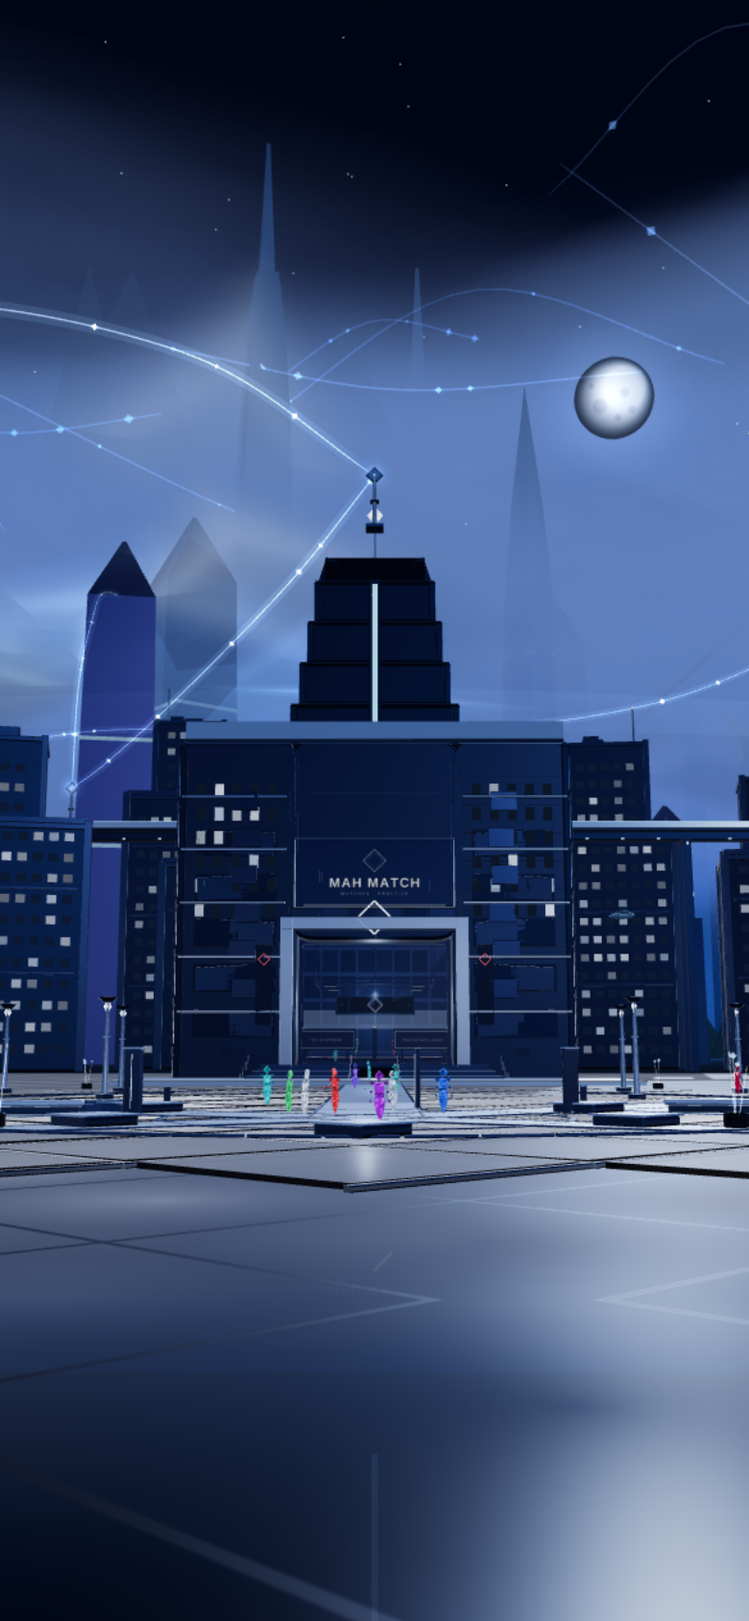
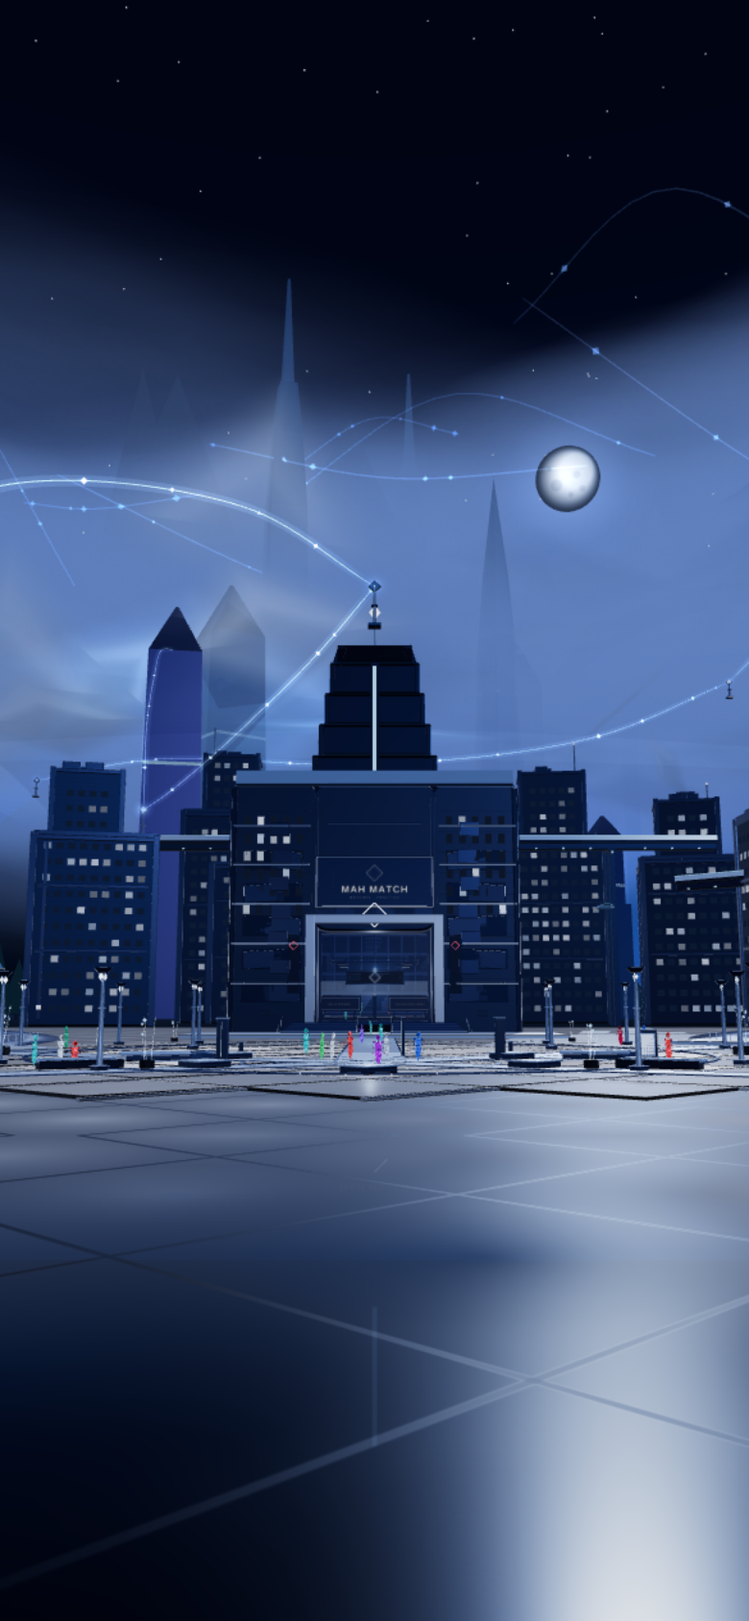
MAHWORLD v6 platinum — the phone hero, Review.html, and one stated tension
The phone hero bands as the brief specifies: platinum floor in the lower third,
then the facilities and residents, then the background districts, then
mountains, FOBEAMs, moon and open sky. The floor was taking 40% of the frame
against the brief's 25-30 and the look target was raised to correct it.

AND A TENSION WORTH NAMING RATHER THAN HIDING. Section 05 (real spacing between
the facilities) and section 46 (all of them inside one portrait frame) pull
against each other at a physical camera. With the sites genuinely about 120 m
apart — which is what fixed their colliding footprints — holding all three
inside a 9:19.5 crop needs roughly an 88-degree vertical lens, which is a
fisheye. The hero therefore makes MAH MATCH its subject and lets MAH GYM and MAH
MARKET enter at the frame edges. The concept image resolves this with an
illustrative composition rather than a perspective camera; a real camera cannot.
It is recorded as a gate note and a discrepancy, not smoothed over.

Review.html is written with the v5 chromium-city pass as BASELINE and this pass
as AFTER, the four ecosystem views included, and the acceptance table rendered
from gates.json.

Suites: laws 27/27, world clock 12/12, 42 captures, 0 page errors.

Claude-Session: https://claude.ai/code/session_01PFdimckBkTJSzz58pBNFUm

diff --git a/validation/mahworld/mahplaza-v6/Review.html b/validation/mahworld/mahplaza-v6/Review.html
@@ -1,0 +1,25 @@
+<!doctype html><html lang="en"><head><meta charset="utf-8"><meta name="viewport" content="width=device-width,initial-scale=1"><title>MAHPLAZA v6 — the platinum ecosystem</title>
+<style>:root{--bg:#0b1020;--ink:#e8f0ff;--dim:#9fb3d3;--line:#22304a;--accent:#8fd0ff;--ref:#c9b2ff;--base:#9aa7bb;--after:#8fd0ff;--pass:#63e6a3;--partial:#ffd39a;--blocked:#ff8fa0}
+html{background:var(--bg);color:var(--ink);font:15px/1.5 "Space Grotesk",system-ui,-apple-system,"Helvetica Neue",Arial,sans-serif}body{margin:0;padding:28px clamp(16px,4vw,56px) 80px;max-width:1500px}
+h1{font-size:22px;letter-spacing:.14em;text-transform:uppercase;margin:0 0 4px}h2{font-size:14px;letter-spacing:.24em;text-transform:uppercase;color:var(--dim);margin:44px 0 12px;padding-top:16px;border-top:1px solid var(--line)}
+p{max-width:78ch;color:var(--dim)}p.lead{color:var(--ink)}code{font-size:.9em;color:var(--accent)}pre{font-size:12px;color:var(--dim);overflow-x:auto;background:#0e1628;padding:10px;border:1px solid var(--line);border-radius:4px}
+.grid{display:grid;gap:14px;grid-template-columns:repeat(auto-fill,minmax(300px,1fr))}.grid--wide{grid-template-columns:repeat(auto-fill,minmax(420px,1fr))}.grid--pair{grid-template-columns:repeat(auto-fit,minmax(420px,1fr))}
+figure{margin:0;position:relative;background:#0e1628;border:1px solid var(--line);border-radius:4px;overflow:hidden}figure img{display:block;width:100%;height:auto;background:#000}figcaption{padding:8px 10px 10px;font-size:12.5px;color:var(--dim)}
+.tag{position:absolute;top:8px;left:8px;font-size:10px;letter-spacing:.2em;text-transform:uppercase;padding:3px 7px;border-radius:2px;background:rgba(6,10,24,.85);border:1px solid var(--line)}.tag--reference{color:var(--ref)}.tag--baseline{color:var(--base)}.tag--after{color:var(--after)}
+table{border-collapse:collapse;width:100%;font-size:13px;font-variant-numeric:tabular-nums}th,td{text-align:left;padding:7px 9px;border-bottom:1px solid var(--line);vertical-align:top}th{color:var(--dim);font-weight:500;letter-spacing:.08em;text-transform:uppercase;font-size:11px}
+.pill{display:inline-block;padding:1px 8px;border-radius:2px;font-size:11px;letter-spacing:.12em;text-transform:uppercase;border:1px solid currentColor}.PASS{color:var(--pass)}.PARTIAL{color:var(--partial)}.BLOCKED,.NOT_RUN,.FAIL{color:var(--blocked)}.wrap{overflow-x:auto}</style></head><body>
+<h1>MAHPLAZA — the platinum ecosystem (v6)</h1>
+<p class="lead">Actual-runtime captures from <code>mahworld/scene/mahplaza.html</code> on the permitted renderer. Revision <code>74ef592+working-tree</code>, captured 2026-09-06T03:32:45.377Z, 141.0.7390.37 with software GL. BASELINE frames are the v5 chromium-city pass (<code>../mahplaza-v5/</code>); AFTER frames are this pass. Modules present at capture: <code>{&quot;terrain&quot;:true,&quot;city&quot;:true,&quot;dressing&quot;:true,&quot;matchInterior&quot;:true,&quot;life&quot;:true,&quot;clouds&quot;:true,&quot;fobeams&quot;:true}</code>.</p><h2>Plaza — baseline against after (night)</h2><div class="grid grid--pair"><figure><span class="tag tag--baseline">BASELINE</span><a href="../mahplaza-v5/v5-establishing-night-wide.png"><img loading="lazy" src="../mahplaza-v5/v5-establishing-night-wide.png" alt="v5 — Arrival — plaza, three destinations, skyline behind — 789 draws · 134,602 tris"></a><figcaption>v5 — Arrival — plaza, three destinations, skyline behind — 789 draws · 134,602 tris</figcaption></figure><figure><span class="tag tag--after">AFTER</span><a href="v6-establishing-night-wide.png"><img loading="lazy" src="v6-establishing-night-wide.png" alt="v6 — Arrival — plaza, three destinations, skyline behind — 844 draws · 143,526 tris · 12 lights · 63 casters"></a><figcaption>v6 — Arrival — plaza, three destinations, skyline behind — 844 draws · 143,526 tris · 12 lights · 63 casters</figcaption></figure><figure><span class="tag tag--after">AFTER</span><a href="v6-overlook-night-wide.png"><img loading="lazy" src="v6-overlook-night-wide.png" alt="v6 — Overlook — the whole site plan and the gaps between the facilities — 846 draws · 141,248 tris · 12 lights · 63 casters"></a><figcaption>v6 — Overlook — the whole site plan and the gaps between the facilities — 846 draws · 141,248 tris · 12 lights · 63 casters</figcaption></figure><figure><span class="tag tag--after">AFTER</span><a href="v6-valley-right-night-wide.png"><img loading="lazy" src="v6-valley-right-night-wide.png" alt="v6 — Right valley — mountains and the basin through the city — 593 draws · 121,648 tris · 12 lights · 63 casters"></a><figcaption>v6 — Right valley — mountains and the basin through the city — 593 draws · 121,648 tris · 12 lights · 63 casters</figcaption></figure><figure><span class="tag tag--after">AFTER</span><a href="v6-valley-centre-night-wide.png"><img loading="lazy" src="v6-valley-centre-night-wide.png" alt="v6 — Centre valley — mountains behind the city — 646 draws · 129,048 tris · 12 lights · 63 casters"></a><figcaption>v6 — Centre valley — mountains behind the city — 646 draws · 129,048 tris · 12 lights · 63 casters</figcaption></figure><figure><span class="tag tag--after">AFTER</span><a href="v6-natural-edge-night-wide.png"><img loading="lazy" src="v6-natural-edge-night-wide.png" alt="v6 — Natural edge — where the built world stops — 469 draws · 113,282 tris · 12 lights · 63 casters"></a><figcaption>v6 — Natural edge — where the built world stops — 469 draws · 113,282 tris · 12 lights · 63 casters</figcaption></figure><figure><span class="tag tag--baseline">BASELINE</span><a href="../mahplaza-v5/v5-in-world-night-wide.png"><img loading="lazy" src="../mahplaza-v5/v5-in-world-night-wide.png" alt="v5 — In-world — ground level, foreground / midground / background — 702 draws · 129,496 tris"></a><figcaption>v5 — In-world — ground level, foreground / midground / background — 702 draws · 129,496 tris</figcaption></figure><figure><span class="tag tag--after">AFTER</span><a href="v6-in-world-night-wide.png"><img loading="lazy" src="v6-in-world-night-wide.png" alt="v6 — In-world — ground level, foreground / midground / background — 706 draws · 134,702 tris · 12 lights · 63 casters"></a><figcaption>v6 — In-world — ground level, foreground / midground / background — 706 draws · 134,702 tris · 12 lights · 63 casters</figcaption></figure><figure><span class="tag tag--baseline">BASELINE</span><a href="../mahplaza-v5/v5-skyline-night-wide.png"><img loading="lazy" src="../mahplaza-v5/v5-skyline-night-wide.png" alt="v5 — Skyline — the district behind MAH MATCH (midground blocks, walkway, towers, distant forms) — 769 draws · 133,732 tris"></a><figcaption>v5 — Skyline — the district behind MAH MATCH (midground blocks, walkway, towers, distant forms) — 769 draws · 133,732 tris</figcaption></figure><figure><span class="tag tag--after">AFTER</span><a href="v6-skyline-night-wide.png"><img loading="lazy" src="v6-skyline-night-wide.png" alt="v6 — Skyline — the district behind MAH MATCH (midground blocks, walkway, towers, distant forms) — 794 draws · 140,962 tris · 12 lights · 63 casters"></a><figcaption>v6 — Skyline — the district behind MAH MATCH (midground blocks, walkway, towers, distant forms) — 794 draws · 140,962 tris · 12 lights · 63 casters</figcaption></figure><figure><span class="tag tag--baseline">BASELINE</span><a href="../mahplaza-v5/v5-plaza-node-night-wide.png"><img loading="lazy" src="../mahplaza-v5/v5-plaza-node-night-wide.png" alt="v5 — Plaza node — foreground composition: paths, seating, masts, curbs — 613 draws · 118,396 tris"></a><figcaption>v5 — Plaza node — foreground composition: paths, seating, masts, curbs — 613 draws · 118,396 tris</figcaption></figure><figure><span class="tag tag--after">AFTER</span><a href="v6-plaza-node-night-wide.png"><img loading="lazy" src="v6-plaza-node-night-wide.png" alt="v6 — Plaza node — foreground composition: paths, seating, masts, curbs — 629 draws · 124,392 tris · 12 lights · 63 casters"></a><figcaption>v6 — Plaza node — foreground composition: paths, seating, masts, curbs — 629 draws · 124,392 tris · 12 lights · 63 casters</figcaption></figure><figure><span class="tag tag--baseline">BASELINE</span><a href="../mahplaza-v5/v5-gym-entrance-night-wide.png"><img loading="lazy" src="../mahplaza-v5/v5-gym-entrance-night-wide.png" alt="v5 — MAH GYM — massing, canopy, courses, interior — 310 draws · 86,612 tris"></a><figcaption>v5 — MAH GYM — massing, canopy, courses, interior — 310 draws · 86,612 tris</figcaption></figure><figure><span class="tag tag--after">AFTER</span><a href="v6-gym-entrance-night-wide.png"><img loading="lazy" src="v6-gym-entrance-night-wide.png" alt="v6 — MAH GYM — massing, canopy, courses, interior — 312 draws · 93,072 tris · 12 lights · 63 casters"></a><figcaption>v6 — MAH GYM — massing, canopy, courses, interior — 312 draws · 93,072 tris · 12 lights · 63 casters</figcaption></figure><figure><span class="tag tag--baseline">BASELINE</span><a href="../mahplaza-v5/v5-match-entrance-night-wide.png"><img loading="lazy" src="../mahplaza-v5/v5-match-entrance-night-wide.png" alt="v5 — MAH MATCH — exterior and the two entrance actions in architecture — 293 draws · 89,458 tris"></a><figcaption>v5 — MAH MATCH — exterior and the two entrance actions in architecture — 293 draws · 89,458 tris</figcaption></figure><figure><span class="tag tag--after">AFTER</span><a href="v6-match-entrance-night-wide.png"><img loading="lazy" src="v6-match-entrance-night-wide.png" alt="v6 — MAH MATCH — exterior and the two entrance actions in architecture — 305 draws · 93,702 tris · 12 lights · 63 casters"></a><figcaption>v6 — MAH MATCH — exterior and the two entrance actions in architecture — 305 draws · 93,702 tris · 12 lights · 63 casters</figcaption></figure><figure><span class="tag tag--baseline">BASELINE</span><a href="../mahplaza-v5/v5-match-hall-night-wide.png"><img loading="lazy" src="../mahplaza-v5/v5-match-hall-night-wide.png" alt="v5 — MAH MATCH hall — the engineered arena, tiers, truss, bays — 231 draws · 77,090 tris"></a><figcaption>v5 — MAH MATCH hall — the engineered arena, tiers, truss, bays — 231 draws · 77,090 tris</figcaption></figure><figure><span class="tag tag--after">AFTER</span><a href="v6-match-hall-night-wide.png"><img loading="lazy" src="v6-match-hall-night-wide.png" alt="v6 — MAH MATCH hall — the engineered arena, tiers, truss, bays — 244 draws · 81,948 tris · 12 lights · 63 casters"></a><figcaption>v6 — MAH MATCH hall — the engineered arena, tiers, truss, bays — 244 draws · 81,948 tris · 12 lights · 63 casters</figcaption></figure><figure><span class="tag tag--baseline">BASELINE</span><a href="../mahplaza-v5/v5-market-entrance-night-wide.png"><img loading="lazy" src="../mahplaza-v5/v5-market-entrance-night-wide.png" alt="v5 — MAH MARKET — massing and interior — 298 draws · 87,902 tris"></a><figcaption>v5 — MAH MARKET — massing and interior — 298 draws · 87,902 tris</figcaption></figure><figure><span class="tag tag--after">AFTER</span><a href="v6-market-entrance-night-wide.png"><img loading="lazy" src="v6-market-entrance-night-wide.png" alt="v6 — MAH MARKET — massing and interior — 302 draws · 89,076 tris · 12 lights · 63 casters"></a><figcaption>v6 — MAH MARKET — massing and interior — 302 draws · 89,076 tris · 12 lights · 63 casters</figcaption></figure><figure><span class="tag tag--baseline">BASELINE</span><a href="../mahplaza-v5/v5-residents-night-wide.png"><img loading="lazy" src="../mahplaza-v5/v5-residents-night-wide.png" alt="v5 — Residents — crystalline humanoids, contact grounding, own colours — 576 draws · 119,376 tris"></a><figcaption>v5 — Residents — crystalline humanoids, contact grounding, own colours — 576 draws · 119,376 tris</figcaption></figure><figure><span class="tag tag--after">AFTER</span><a href="v6-residents-night-wide.png"><img loading="lazy" src="v6-residents-night-wide.png" alt="v6 — Residents — crystalline humanoids, contact grounding, own colours — 561 draws · 122,948 tris · 12 lights · 63 casters"></a><figcaption>v6 — Residents — crystalline humanoids, contact grounding, own colours — 561 draws · 122,948 tris · 12 lights · 63 casters</figcaption></figure><figure><span class="tag tag--baseline">BASELINE</span><a href="../mahplaza-v5/v5-appearance-night-wide.png"><img loading="lazy" src="../mahplaza-v5/v5-appearance-night-wide.png" alt="v5 — Appearance check camera — 628 draws · 124,832 tris"></a><figcaption>v5 — Appearance check camera — 628 draws · 124,832 tris</figcaption></figure><figure><span class="tag tag--after">AFTER</span><a href="v6-appearance-night-wide.png"><img loading="lazy" src="v6-appearance-night-wide.png" alt="v6 — Appearance check camera — 571 draws · 127,324 tris · 12 lights · 63 casters"></a><figcaption>v6 — Appearance check camera — 571 draws · 127,324 tris · 12 lights · 63 casters</figcaption></figure><figure><span class="tag tag--baseline">BASELINE</span><a href="../mahplaza-v5/v5-sky-plant-night-wide.png"><img loading="lazy" src="../mahplaza-v5/v5-sky-plant-night-wide.png" alt="v5 — Sky, atmosphere bands, plant detail — 573 draws · 119,720 tris"></a><figcaption>v5 — Sky, atmosphere bands, plant detail — 573 draws · 119,720 tris</figcaption></figure><figure><span class="tag tag--after">AFTER</span><a href="v6-sky-plant-night-wide.png"><img loading="lazy" src="v6-sky-plant-night-wide.png" alt="v6 — Sky, atmosphere bands, plant detail — 607 draws · 126,382 tris · 12 lights · 63 casters"></a><figcaption>v6 — Sky, atmosphere bands, plant detail — 607 draws · 126,382 tris · 12 lights · 63 casters</figcaption></figure></div><h2>Day and dusk</h2><div class="grid"><figure><span class="tag tag--after">AFTER</span><a href="v6-establishing-day-wide.png"><img loading="lazy" src="v6-establishing-day-wide.png" alt="DAY — establishing — 849 draws · 144,112 tris · 12 lights · 63 casters"></a><figcaption>DAY — establishing — 849 draws · 144,112 tris · 12 lights · 63 casters</figcaption></figure><figure><span class="tag tag--after">AFTER</span><a href="v6-overlook-day-wide.png"><img loading="lazy" src="v6-overlook-day-wide.png" alt="DAY — overlook — 851 draws · 141,834 tris · 12 lights · 63 casters"></a><figcaption>DAY — overlook — 851 draws · 141,834 tris · 12 lights · 63 casters</figcaption></figure><figure><span class="tag tag--after">AFTER</span><a href="v6-valley-right-day-wide.png"><img loading="lazy" src="v6-valley-right-day-wide.png" alt="DAY — valley-right — 596 draws · 121,578 tris · 12 lights · 63 casters"></a><figcaption>DAY — valley-right — 596 draws · 121,578 tris · 12 lights · 63 casters</figcaption></figure><figure><span class="tag tag--after">AFTER</span><a href="v6-valley-centre-day-wide.png"><img loading="lazy" src="v6-valley-centre-day-wide.png" alt="DAY — valley-centre — 633 draws · 127,812 tris · 12 lights · 63 casters"></a><figcaption>DAY — valley-centre — 633 draws · 127,812 tris · 12 lights · 63 casters</figcaption></figure><figure><span class="tag tag--after">AFTER</span><a href="v6-natural-edge-day-wide.png"><img loading="lazy" src="v6-natural-edge-day-wide.png" alt="DAY — natural-edge — 465 draws · 112,742 tris · 12 lights · 63 casters"></a><figcaption>DAY — natural-edge — 465 draws · 112,742 tris · 12 lights · 63 casters</figcaption></figure><figure><span class="tag tag--after">AFTER</span><a href="v6-in-world-day-wide.png"><img loading="lazy" src="v6-in-world-day-wide.png" alt="DAY — in-world — 700 draws · 134,254 tris · 12 lights · 63 casters"></a><figcaption>DAY — in-world — 700 draws · 134,254 tris · 12 lights · 63 casters</figcaption></figure><figure><span class="tag tag--after">AFTER</span><a href="v6-skyline-day-wide.png"><img loading="lazy" src="v6-skyline-day-wide.png" alt="DAY — skyline — 783 draws · 140,048 tris · 12 lights · 63 casters"></a><figcaption>DAY — skyline — 783 draws · 140,048 tris · 12 lights · 63 casters</figcaption></figure><figure><span class="tag tag--after">AFTER</span><a href="v6-plaza-node-day-wide.png"><img loading="lazy" src="v6-plaza-node-day-wide.png" alt="DAY — plaza-node — 629 draws · 123,698 tris · 12 lights · 63 casters"></a><figcaption>DAY — plaza-node — 629 draws · 123,698 tris · 12 lights · 63 casters</figcaption></figure><figure><span class="tag tag--after">AFTER</span><a href="v6-gym-entrance-day-wide.png"><img loading="lazy" src="v6-gym-entrance-day-wide.png" alt="DAY — gym-entrance — 304 draws · 92,078 tris · 12 lights · 63 casters"></a><figcaption>DAY — gym-entrance — 304 draws · 92,078 tris · 12 lights · 63 casters</figcaption></figure><figure><span class="tag tag--after">AFTER</span><a href="v6-match-entrance-day-wide.png"><img loading="lazy" src="v6-match-entrance-day-wide.png" alt="DAY — match-entrance — 300 draws · 93,130 tris · 12 lights · 63 casters"></a><figcaption>DAY — match-entrance — 300 draws · 93,130 tris · 12 lights · 63 casters</figcaption></figure><figure><span class="tag tag--after">AFTER</span><a href="v6-match-hall-day-wide.png"><img loading="lazy" src="v6-match-hall-day-wide.png" alt="DAY — match-hall — 230 draws · 81,232 tris · 12 lights · 63 casters"></a><figcaption>DAY — match-hall — 230 draws · 81,232 tris · 12 lights · 63 casters</figcaption></figure><figure><span class="tag tag--after">AFTER</span><a href="v6-market-entrance-day-wide.png"><img loading="lazy" src="v6-market-entrance-day-wide.png" alt="DAY — market-entrance — 309 draws · 88,788 tris · 12 lights · 63 casters"></a><figcaption>DAY — market-entrance — 309 draws · 88,788 tris · 12 lights · 63 casters</figcaption></figure><figure><span class="tag tag--after">AFTER</span><a href="v6-residents-day-wide.png"><img loading="lazy" src="v6-residents-day-wide.png" alt="DAY — residents — 563 draws · 122,872 tris · 12 lights · 63 casters"></a><figcaption>DAY — residents — 563 draws · 122,872 tris · 12 lights · 63 casters</figcaption></figure><figure><span class="tag tag--after">AFTER</span><a href="v6-appearance-day-wide.png"><img loading="lazy" src="v6-appearance-day-wide.png" alt="DAY — appearance — 576 draws · 127,348 tris · 12 lights · 63 casters"></a><figcaption>DAY — appearance — 576 draws · 127,348 tris · 12 lights · 63 casters</figcaption></figure><figure><span class="tag tag--after">AFTER</span><a href="v6-sky-plant-day-wide.png"><img loading="lazy" src="v6-sky-plant-day-wide.png" alt="DAY — sky-plant — 605 draws · 125,052 tris · 12 lights · 63 casters"></a><figcaption>DAY — sky-plant — 605 draws · 125,052 tris · 12 lights · 63 casters</figcaption></figure><figure><span class="tag tag--after">AFTER</span><a href="v6-establishing-dusk-wide.png"><img loading="lazy" src="v6-establishing-dusk-wide.png" alt="DUSK — establishing — 853 draws · 144,664 tris · 12 lights · 63 casters"></a><figcaption>DUSK — establishing — 853 draws · 144,664 tris · 12 lights · 63 casters</figcaption></figure><figure><span class="tag tag--after">AFTER</span><a href="v6-skyline-dusk-wide.png"><img loading="lazy" src="v6-skyline-dusk-wide.png" alt="DUSK — skyline — 783 draws · 140,800 tris · 12 lights · 63 casters"></a><figcaption>DUSK — skyline — 783 draws · 140,800 tris · 12 lights · 63 casters</figcaption></figure></div><h2>Phone frames</h2><div class="grid"><figure><span class="tag tag--after">AFTER</span><a href="v6-establishing-night-phone.png"><img loading="lazy" src="v6-establishing-night-phone.png" alt="phone · establishing · night — 565 draws · 120,166 tris · 12 lights · 63 casters"></a><figcaption>phone · establishing · night — 565 draws · 120,166 tris · 12 lights · 63 casters</figcaption></figure><figure><span class="tag tag--after">AFTER</span><a href="v6-in-world-night-phone.png"><img loading="lazy" src="v6-in-world-night-phone.png" alt="phone · in-world · night — 441 draws · 107,512 tris · 12 lights · 63 casters"></a><figcaption>phone · in-world · night — 441 draws · 107,512 tris · 12 lights · 63 casters</figcaption></figure><figure><span class="tag tag--after">AFTER</span><a href="v6-skyline-night-phone.png"><img loading="lazy" src="v6-skyline-night-phone.png" alt="phone · skyline · night — 445 draws · 108,320 tris · 12 lights · 63 casters"></a><figcaption>phone · skyline · night — 445 draws · 108,320 tris · 12 lights · 63 casters</figcaption></figure><figure><span class="tag tag--after">AFTER</span><a href="v6-overlook-night-phone.png"><img loading="lazy" src="v6-overlook-night-phone.png" alt="phone · overlook · night — 475 draws · 111,720 tris · 12 lights · 63 casters"></a><figcaption>phone · overlook · night — 475 draws · 111,720 tris · 12 lights · 63 casters</figcaption></figure><figure><span class="tag tag--after">AFTER</span><a href="v6-valley-right-night-phone.png"><img loading="lazy" src="v6-valley-right-night-phone.png" alt="phone · valley-right · night — 349 draws · 95,532 tris · 12 lights · 63 casters"></a><figcaption>phone · valley-right · night — 349 draws · 95,532 tris · 12 lights · 63 casters</figcaption></figure><figure><span class="tag tag--after">AFTER</span><a href="v6-match-entrance-night-phone.png"><img loading="lazy" src="v6-match-entrance-night-phone.png" alt="phone · match-entrance · night — 291 draws · 91,102 tris · 12 lights · 63 casters"></a><figcaption>phone · match-entrance · night — 291 draws · 91,102 tris · 12 lights · 63 casters</figcaption></figure><figure><span class="tag tag--after">AFTER</span><a href="v6-residents-night-phone.png"><img loading="lazy" src="v6-residents-night-phone.png" alt="phone · residents · night — 356 draws · 102,422 tris · 12 lights · 63 casters"></a><figcaption>phone · residents · night — 356 draws · 102,422 tris · 12 lights · 63 casters</figcaption></figure><figure><span class="tag tag--after">AFTER</span><a href="v6-in-world-day-phone.png"><img loading="lazy" src="v6-in-world-day-phone.png" alt="phone · in-world · day — 436 draws · 107,114 tris · 12 lights · 63 casters"></a><figcaption>phone · in-world · day — 436 draws · 107,114 tris · 12 lights · 63 casters</figcaption></figure><figure><span class="tag tag--after">AFTER</span><a href="v6-match-hall-day-phone.png"><img loading="lazy" src="v6-match-hall-day-phone.png" alt="phone · match-hall · day — 201 draws · 73,944 tris · 12 lights · 63 casters"></a><figcaption>phone · match-hall · day — 201 draws · 73,944 tris · 12 lights · 63 casters</figcaption></figure><figure><span class="tag tag--after">AFTER</span><a href="v6-in-world-night-phone-with-controls.png"><img loading="lazy" src="v6-in-world-night-phone-with-controls.png" alt="phone with controls · in-world · night — 441 draws · 107,512 tris · 12 lights · 63 casters"></a><figcaption>phone with controls · in-world · night — 441 draws · 107,512 tris · 12 lights · 63 casters</figcaption></figure></div><h2>Acceptance (brief §50–§54)</h2><div class="wrap"><table><thead><tr><th>Item</th><th>Status</th><th>Evidence / note</th></tr></thead><tbody><tr><td>§50-1 — Major buildings read predominantly platinum / diamond / glass</td><td><span class="pill PARTIAL">PARTIAL</span></td><td>The root cause is fixed and the gain is large: a metal takes no diffuse light, so every metalness&gt;=0.9 surface was lit solely by an environment ring whose own distribution was 'mostly dark, a few bright'. That ring is genuinely lit now, and a new low-metalness platinumLit grade carries every HORIZONTAL cap, which measured ~3,100 m2 of surface (canopy, terraces, aprons, path bands, 82 dressing trim parts) whose hex read 60-63% luminance and whose render read black. The floor, frontages, canopies, aprons and furniture now read platinum. PARTIAL because the three destination BODIES and the midground block masses are deliberately still dark: they are the value floor the platinum is measured against, and lightening them uniformly would flatten the world rather than brighten it. A further pass should widen the platinum FRAMING on those masses instead.</td></tr><tr><td>§50-2 — Important corners rounded or bevelled</td><td><span class="pill PASS">PASS</span></td><td>Every box in buildings.js is chamfered with a chamfer scaled to the part. Furniture that the camera gets close to uses softMass (bevelSegments 3, curveSegments 6) rather than a single 45-degree facet. The eight distant horizon slabs are chamfered too — eight un-bevelled black rectangles was the repeated-box read this brief objects to.</td></tr><tr><td>§50-3 — MAH GYM / MATCH / MARKET visually distinct</td><td><span class="pill PASS">PASS</span></td><td>Three silhouette treatments: a swept curved glazed canopy, three receding roof terraces, a 22 m tower on a banded shoulder. Distinguishable in the overlook and arrival frames without reading a sign.</td></tr><tr><td>§50-4 — The facilities have real spacing</td><td><span class="pill PASS">PASS</span></td><td>v5's separation was DEPTH ONLY. Measured from the arrival camera the three overlapped in bearing, and their side wings physically collided: MAH MATCH's apron OVERLAPPED MAH MARKET's left wing, and MAH GYM's right wing stood 0.40 m from MAH MATCH's apron. The side wings grew each facility by 68% of its own width, so the secondary mass grows BACKWARD now — a set-back rear volume — and the sites moved apart laterally. The overlook frame shows open ground between all three.</td></tr><tr><td>§50-5 — Facades have depth</td><td><span class="pill PASS">PASS</span></td><td>Recessed reveals, angled inset crystal panels, corner turns with platinum edges, window courses, rear volumes, and signage built into the wall rather than printed on it.</td></tr><tr><td>§50-6 — Building materials vary</td><td><span class="pill PASS">PASS</span></td><td>Four background families — bright platinum, dark crystalline glass, soft graphite, restrained violet-grey — assigned INDEPENDENTLY of archetype, so shape and surface are two separate variables. In v5, 26 of 39 towers wore one of two materials.</td></tr><tr><td>§50-7 — Background structures are not all identical</td><td><span class="pill PARTIAL">PARTIAL</span></td><td>Material variety and the three distant depth bands are in. PARTIAL because the fifteen midground blocks are still one geometry recipe at fifteen scales — the same core mass, four corner pilasters, spandrel bands at one pitch, one crown and one window module. Two or three distinct block families are the outstanding work.</td></tr><tr><td>§50-8 — The skyline does not form one continuous wall</td><td><span class="pill PASS">PASS</span></td><td>Measured before: the widest hole anywhere in the landscape arrival frame was 3.4 degrees, refilled to 0.4 by midground blocks, and the PORTRAIT arrival frame had ZERO open sky to the horizon at any bearing. Three valleys are now cut — right 52-72, centre 108-124, left 128-142 — with the towers, slabs and blocks that closed them removed and nothing moved in to compensate. Megatalls went from twelve to eight.</td></tr><tr><td>§51-1 — Mountain ranges remain visible</td><td><span class="pill PASS">PASS</span></td><td>They were never visible: sky.js:122 gates them behind an empty `if (ctx.cityPresent) { }` whose comment promises a horizon backstop it does not build, and its generator places every peak at negative x because the bearing sweep never lets cos(a) change sign. terrain.js builds three ranges at 700 / 1050 / 1500 m rising to 820 m, concentrated in the three valleys, with aerial perspective baked into vertex colours because the night fog far plane of 880 m erases anything past 860.</td></tr><tr><td>§51-2 — Open natural corridors exist</td><td><span class="pill PASS">PASS</span></td><td>The three valleys are open from the plaza to the horizon, and the land ring carries the world from 600 m to 1750 m beyond the city's own ground, which now stops at 620 m instead of 900 so it cannot paint over the land.</td></tr><tr><td>§51-3 — Landscaping is present</td><td><span class="pill PARTIAL">PARTIAL</span></td><td>Fifteen groves of 148 trees plant the valleys between city and land. PARTIAL: this is MID-DISTANCE planting. The plaza itself still has only six planters over ~5,800 m2 of deck, and near-camera vegetation is the outstanding work.</td></tr><tr><td>§51-4 — Future water areas remain spatially possible</td><td><span class="pill PASS">PASS</span></td><td>One still basin is built in the right valley at bearing 62, 330 m out, sized 210 x 130 m — deep dark blue at roughness 0.04 and metalness 0.92 so the sky, moon and FOBEAM field reflect in it rather than it glowing. Nothing in city.js, ground.js or buildings.js occupies that region, and the ground around it is left clear for a larger system.</td></tr><tr><td>§51-5 — The city no longer consumes the entire world</td><td><span class="pill PASS">PASS</span></td><td>The overlook and valley views show city, open ground, planting, water and mountains in one frame.</td></tr><tr><td>§52-1 — Residents move through the world; training is visible</td><td><span class="pill PASS">PASS</span></td><td>Carried from v4/v5 and still running: walkers on a path network, conversation groups, building entries, and the eight ambient events.</td></tr><tr><td>§52-2 — MAHBEINGS attempt flight; beginner attempts read as beginner; advanced flight is rare; no chaos</td><td><span class="pill PASS">PASS</span></td><td>Seven states built as ONE arc parameterised by skill, so a beginner and an advanced resident run the same code and differ only in how far they get and how cleanly. Verified by advancing the world 420 seconds deterministically: hover attempt x5, steady hover x3, failed attempt x3, short flight x2, flight lesson x1 — beginners common, the three-resident lesson rarest — alongside all eight original events, never more than three active. A failed attempt is a small lift, a tilt the resident corrects, and a controlled settle; nobody falls.</td></tr><tr><td>§53 — Canonical MAH branding, not generic substitute typography</td><td><span class="pill PASS with one stated departure">PASS with one stated departure</span></td><td>Read out of the app source rather than approximated: Space Grotesk, uppercase, tight title tracking (.055-.10em) against wide sub-line tracking (.16-.42em), the tracked-line centring rule, and weight 700 — the world had been asking for 800, which NO page in the repository loads, making it a faux-bold. THE DEPARTURE: the canonical identity colour is champagne gold #E9C98F (every opaque pixel of images/mahfitt-mark-gold.png is exactly that value), and MAHWORLD's own light law LAW-001 forbids it — hue 38.7 at 0.67 saturation. Both concept images render the facility names in cool white and the reference manifest recorded this in v3, so the world takes every canonical property EXCEPT the hue, in the one cream that passes (#EFEAE0). BRAND.gold is kept in materials.js as the record; relaxing the light law for signage is a one-line change.</td></tr><tr><td>§18 — Signage physically integrated, not flat text on a wall</td><td><span class="pill PASS">PASS</span></td><td>A faceted backing panel recessed into the facade, a mirror-grade chromium frame with real mounting depth behind the wordmark plane, and a lit reveal along the lower edge washing the letters from below.</td></tr><tr><td>§15/§16 — Furniture reads as designed objects, not dark cutouts</td><td><span class="pill PASS">PASS</span></td><td>Benches gained a dark plinth set back so the seat overhangs, curved corners, a platinum nosing and an unlit strip in the overhang's shadow. Plinths are hollow with a rim, recess and interior wash. Rail posts and bollards gained base plates and caps on the low-metalness grade while their shafts keep metalness 1.0. Shelters gained lit soffits. A real bug was fixed: the info pylon's lit face was offset along the wrong axis and sat 0.2 m BEHIND its own body, single-sided, facing into its back.</td></tr><tr><td>§45/§46 — Ecosystem cameras and the phone-vertical hero banding</td><td><span class="pill PASS with a stated tension">PASS with a stated tension</span></td><td>Four ecosystem views are in — right valley, centre valley, overlook, natural edge — and join the core review set. The phone hero bands correctly: platinum floor in the lower third, then the facilities and residents, then the background districts, then mountains, FOBEAMs, moon and open sky. THE TENSION, stated rather than hidden: §05 (real spacing between the facilities) and §46 (all of them inside one portrait frame) pull against each other at a physical camera. With the sites genuinely ~120 m apart, holding all three inside a 9:19.5 crop needs about an 88-degree vertical lens, which is a fisheye. The hero therefore makes MAH MATCH the subject and lets MAH GYM and MAH MARKET enter at the frame edges. The concept image resolves this with an illustrative composition rather than a perspective camera.</td></tr><tr><td>§47 — Performance discipline</td><td><span class="pill PASS">PASS</span></td><td>Terrain costs 8 draw calls and 6,706 triangles for 66 peaks and 148 trees. The whole scene sits at 578-816 draw calls and 120k-141k triangles across the review set, with 12 lights and 62 shadow casters — the same order as v5 despite the added world. Frame times here come from headless software GL and are NOT phone numbers.</td></tr></tbody></table></div><h2>Remaining visible discrepancies</h2><ul><li>The fifteen midground city blocks are still one geometry recipe at fifteen scales. Material and depth variety were added around them; their massing was not.</li><li>The three destination bodies and the block masses remain dark on purpose, as the value floor the platinum reads against. The brief's platinum-first target is met on the floor, frontages, canopies, aprons and furniture but not yet on the primary elevations.</li><li>Near-camera vegetation is still six planters over the whole deck; the new planting is mid-distance.</li><li>The reserved square-diamond mark slot on the three signs is still empty: no verified FOB or MAHFITT mark file has been supplied.</li><li>Banner copy shown in the concept image (FIGHT HIGHER, LIVE HIGHER, SKILL BUILDS PEOPLE, HUMAN POTENTIAL LIVES HERE, CONNECT TRAIN COMPETE SHOP BELONG) is NOT in the world: none of it was verifiable in the app source, and inventing slogans is outside what this work may do. TRAIN HIGHER is present because it already existed in the scene.</li><li>Frame times come from headless software GL on a shared 4-core machine and are inflated; only draw calls, triangles, lights and shadow-caster counts are device-independent.</li><li>The phone hero cannot contain all three facilities at a realistic lens now that they are genuinely separated; MAH MATCH is the portrait subject and the other two enter at the edges. See gate §45/§46.</li></ul><h2>Technical</h2><div class="wrap"><table><thead><tr><th>File</th><th>View</th><th>Time</th><th>Draws</th><th>Tris</th><th>Lights</th><th>Casters</th><th>ms (software GL)</th><th>Heap MB</th></tr></thead><tbody><tr><td>v6-establishing-night-wide.png</td><td>establishing</td><td>night</td><td>844</td><td>143,526</td><td>12</td><td>63</td><td>27.1</td><td>24.8</td></tr><tr><td>v6-overlook-night-wide.png</td><td>overlook</td><td>night</td><td>846</td><td>141,248</td><td>12</td><td>63</td><td>14.4</td><td>24.8</td></tr><tr><td>v6-valley-right-night-wide.png</td><td>valley-right</td><td>night</td><td>593</td><td>121,648</td><td>12</td><td>63</td><td>9.7</td><td>24.8</td></tr><tr><td>v6-valley-centre-night-wide.png</td><td>valley-centre</td><td>night</td><td>646</td><td>129,048</td><td>12</td><td>63</td><td>8.8</td><td>24.8</td></tr><tr><td>v6-natural-edge-night-wide.png</td><td>natural-edge</td><td>night</td><td>469</td><td>113,282</td><td>12</td><td>63</td><td>6.7</td><td>24.8</td></tr><tr><td>v6-in-world-night-wide.png</td><td>in-world</td><td>night</td><td>706</td><td>134,702</td><td>12</td><td>63</td><td>7.8</td><td>24.8</td></tr><tr><td>v6-skyline-night-wide.png</td><td>skyline</td><td>night</td><td>794</td><td>140,962</td><td>12</td><td>63</td><td>8</td><td>24.8</td></tr><tr><td>v6-plaza-node-night-wide.png</td><td>plaza-node</td><td>night</td><td>629</td><td>124,392</td><td>12</td><td>63</td><td>7.8</td><td>24.8</td></tr><tr><td>v6-gym-entrance-night-wide.png</td><td>gym-entrance</td><td>night</td><td>312</td><td>93,072</td><td>12</td><td>63</td><td>5.5</td><td>24.8</td></tr><tr><td>v6-match-entrance-night-wide.png</td><td>match-entrance</td><td>night</td><td>305</td><td>93,702</td><td>12</td><td>63</td><td>5.8</td><td>24.8</td></tr><tr><td>v6-match-hall-night-wide.png</td><td>match-hall</td><td>night</td><td>244</td><td>81,948</td><td>12</td><td>63</td><td>5</td><td>24.8</td></tr><tr><td>v6-market-entrance-night-wide.png</td><td>market-entrance</td><td>night</td><td>302</td><td>89,076</td><td>12</td><td>63</td><td>5.2</td><td>24.8</td></tr><tr><td>v6-residents-night-wide.png</td><td>residents</td><td>night</td><td>561</td><td>122,948</td><td>12</td><td>63</td><td>462.8</td><td>24.8</td></tr><tr><td>v6-appearance-night-wide.png</td><td>appearance</td><td>night</td><td>571</td><td>127,324</td><td>12</td><td>63</td><td>110.8</td><td>24.8</td></tr><tr><td>v6-sky-plant-night-wide.png</td><td>sky-plant</td><td>night</td><td>607</td><td>126,382</td><td>12</td><td>63</td><td>31.7</td><td>24.8</td></tr><tr><td>v6-establishing-day-wide.png</td><td>establishing</td><td>day</td><td>849</td><td>144,112</td><td>12</td><td>63</td><td>15.6</td><td>24.8</td></tr><tr><td>v6-overlook-day-wide.png</td><td>overlook</td><td>day</td><td>851</td><td>141,834</td><td>12</td><td>63</td><td>10.3</td><td>24.8</td></tr><tr><td>v6-valley-right-day-wide.png</td><td>valley-right</td><td>day</td><td>596</td><td>121,578</td><td>12</td><td>63</td><td>8.9</td><td>24.8</td></tr><tr><td>v6-valley-centre-day-wide.png</td><td>valley-centre</td><td>day</td><td>633</td><td>127,812</td><td>12</td><td>63</td><td>8</td><td>24.8</td></tr><tr><td>v6-natural-edge-day-wide.png</td><td>natural-edge</td><td>day</td><td>465</td><td>112,742</td><td>12</td><td>63</td><td>6.4</td><td>24.8</td></tr><tr><td>v6-in-world-day-wide.png</td><td>in-world</td><td>day</td><td>700</td><td>134,254</td><td>12</td><td>63</td><td>7</td><td>24.8</td></tr><tr><td>v6-skyline-day-wide.png</td><td>skyline</td><td>day</td><td>783</td><td>140,048</td><td>12</td><td>63</td><td>8.1</td><td>24.8</td></tr><tr><td>v6-plaza-node-day-wide.png</td><td>plaza-node</td><td>day</td><td>629</td><td>123,698</td><td>12</td><td>63</td><td>7.3</td><td>24.8</td></tr><tr><td>v6-gym-entrance-day-wide.png</td><td>gym-entrance</td><td>day</td><td>304</td><td>92,078</td><td>12</td><td>63</td><td>5.3</td><td>24.8</td></tr><tr><td>v6-match-entrance-day-wide.png</td><td>match-entrance</td><td>day</td><td>300</td><td>93,130</td><td>12</td><td>63</td><td>4.8</td><td>24.8</td></tr><tr><td>v6-match-hall-day-wide.png</td><td>match-hall</td><td>day</td><td>230</td><td>81,232</td><td>12</td><td>63</td><td>4.5</td><td>24.8</td></tr><tr><td>v6-market-entrance-day-wide.png</td><td>market-entrance</td><td>day</td><td>309</td><td>88,788</td><td>12</td><td>63</td><td>4.5</td><td>24.8</td></tr><tr><td>v6-residents-day-wide.png</td><td>residents</td><td>day</td><td>563</td><td>122,872</td><td>12</td><td>63</td><td>6.4</td><td>24.8</td></tr><tr><td>v6-appearance-day-wide.png</td><td>appearance</td><td>day</td><td>576</td><td>127,348</td><td>12</td><td>63</td><td>6.8</td><td>24.8</td></tr><tr><td>v6-sky-plant-day-wide.png</td><td>sky-plant</td><td>day</td><td>605</td><td>125,052</td><td>12</td><td>63</td><td>7.5</td><td>24.8</td></tr><tr><td>v6-establishing-dusk-wide.png</td><td>establishing</td><td>dusk</td><td>853</td><td>144,664</td><td>12</td><td>63</td><td>8.2</td><td>24.8</td></tr><tr><td>v6-skyline-dusk-wide.png</td><td>skyline</td><td>dusk</td><td>783</td><td>140,800</td><td>12</td><td>63</td><td>8.1</td><td>24.8</td></tr><tr><td>v6-establishing-night-phone.png</td><td>establishing</td><td>night</td><td>565</td><td>120,166</td><td>12</td><td>63</td><td>22.2</td><td>35.6</td></tr><tr><td>v6-in-world-night-phone.png</td><td>in-world</td><td>night</td><td>441</td><td>107,512</td><td>12</td><td>63</td><td>10.5</td><td>35.6</td></tr><tr><td>v6-skyline-night-phone.png</td><td>skyline</td><td>night</td><td>445</td><td>108,320</td><td>12</td><td>63</td><td>9</td><td>35.6</td></tr><tr><td>v6-overlook-night-phone.png</td><td>overlook</td><td>night</td><td>475</td><td>111,720</td><td>12</td><td>63</td><td>7.7</td><td>35.6</td></tr><tr><td>v6-valley-right-night-phone.png</td><td>valley-right</td><td>night</td><td>349</td><td>95,532</td><td>12</td><td>63</td><td>6</td><td>35.6</td></tr><tr><td>v6-match-entrance-night-phone.png</td><td>match-entrance</td><td>night</td><td>291</td><td>91,102</td><td>12</td><td>63</td><td>5.6</td><td>35.6</td></tr><tr><td>v6-residents-night-phone.png</td><td>residents</td><td>night</td><td>356</td><td>102,422</td><td>12</td><td>63</td><td>6.3</td><td>35.6</td></tr><tr><td>v6-in-world-day-phone.png</td><td>in-world</td><td>day</td><td>436</td><td>107,114</td><td>12</td><td>63</td><td>7.2</td><td>35.6</td></tr><tr><td>v6-match-hall-day-phone.png</td><td>match-hall</td><td>day</td><td>201</td><td>73,944</td><td>12</td><td>63</td><td>4.2</td><td>35.6</td></tr><tr><td>v6-in-world-night-phone-with-controls.png</td><td>in-world</td><td>night</td><td>441</td><td>107,512</td><td>12</td><td>63</td><td>28.6</td><td>24.8</td></tr></tbody></table></div>
+<p>Baseline v5 (night, wide): establishing 789 draws / 134,602 tris · in-world 702 draws / 129,496 tris · skyline 769 draws / 133,732 tris · plaza-node 613 draws / 118,396 tris · gym-entrance 310 draws / 86,612 tris · match-entrance 293 draws / 89,458 tris · match-hall 231 draws / 77,090 tris · market-entrance 298 draws / 87,902 tris · residents 576 draws / 119,376 tris · appearance 628 draws / 124,832 tris · sky-plant 573 draws / 119,720 tris</p>
+<h3>Changed files against 86da57d (v5)</h3><pre>mahworld/scene/README.md              |  21 ++-
+ mahworld/scene/buildings.js           |  89 ++++++++--
+ mahworld/scene/city.js                | 147 +++++++++++-----
+ mahworld/scene/ground.js              |   2 +-
+ mahworld/scene/life.js                | 104 ++++++++++++
+ mahworld/scene/mahplaza.js            |  71 +++++---
+ mahworld/scene/materials.js           |  96 +++++++++--
+ mahworld/scene/plaza-dressing.js      |  72 ++++++--
+ mahworld/scene/terrain.js             | 306 ++++++++++++++++++++++++++++++++++
+ tests/mahworld-mahplaza-capture-v6.js | 189 +++++++++++++++++++++
+ 10 files changed, 984 insertions(+), 113 deletions(-)</pre>
+<p>Full data: <code>capture.json</code>. Page errors during capture: 0.</p></body></html>

diff --git a/mahworld/scene/mahplaza.js b/mahworld/scene/mahplaza.js
@@ -30,7 +30,14 @@ export const VIEWS = {
   /* v6 §45 / §46: the three facilities now stand apart LATERALLY as well as in depth, so the arrival
      camera stands further back on a narrower lens — the whole ecosystem reads, with real gaps between
      the facilities and open sky through the skyline valleys down to the mountains behind. */
-  establishing:      { pos: [0.6, 3.4, 84],    look: [0, 20, -74],     fov: 44, label: 'Arrival', portrait: { pos: [0.6, 3.1, 76], look: [0, 30, -74], fov: 48 } },
+  establishing:      { pos: [0.6, 3.4, 84],    look: [0, 20, -74],     fov: 44, label: 'Arrival',
+    /* THE PHONE HERO (§46). Bottom third platinum floor, then the facilities, then the districts, then
+       mountains / FOBEAMs / moon / sky. It stands further back on a wider lens than the landscape view
+       because §05 (real spacing between the facilities) and §46 (all of them in one portrait frame) pull
+       against each other at a physical camera: with the sites genuinely 120 m apart, holding all three
+       inside a 9:19.5 crop needs about an 88-degree vertical lens, which is a fisheye. This is the
+       honest compromise — MAH MATCH is the hero, and MAH GYM and MAH MARKET enter at the frame edges. */
+    portrait: { pos: [0.6, 4.2, 96], look: [0, 34, -74], fov: 58 } },
   'in-world':        { pos: [3.5, 1.9, 40],    look: [-1, 14, -74],    fov: 52, label: 'In-world', portrait: { pos: [3.5, 1.9, 40], look: [-1, 23, -74], fov: 56 } },
   'match-approach':  { pos: [1.4, 1.9, -18],   look: [0, 15, -74],     fov: 58, label: 'Toward MAH MATCH' },
   'match-entrance':  { pos: [0.4, 3.0, -58],   look: [0, 6.0, -86],    fov: 54, label: 'MAH MATCH entrance', portrait: { pos: [0.4, 3.4, -50], look: [0, 9.0, -86], fov: 58 } },

diff --git a/mahworld/scene/README.md b/mahworld/scene/README.md
@@ -6,8 +6,27 @@ system, no network and no interface baked into the world.
 
 | Scene | Page | Status |
 | --- | --- | --- |
-| **MAHPLAZA** — MAH GYM · MAH MATCH · MAH MARKET, a living chromium district under a luminous crystalline night | `mahplaza.html` | **v5** (the chromium city), the current milestone |
+| **MAHPLAZA** — MAH GYM · MAH MATCH · MAH MARKET, a platinum civilization inside a larger world | `mahplaza.html` | **v6** (the platinum ecosystem), the current milestone |
 | Arrival Gate — the MAHWORLD gate plaza | `arrival-gate/plaza.html` | study v1, kept for the record |
+
+## v6 — the platinum ecosystem
+
+MAHWORLD is a civilization inside a LARGER WORLD now, not a city that consumes
+one. A viewer can see where the plaza ends, where the city continues, where the
+mountains begin, and where open land and water are.
+
+| What changed | Where |
+| --- | --- |
+| the reason platinum rendered black: a metal takes no diffuse light, so every metalness ≥ 0.9 surface was lit only by an environment ring that was "mostly dark". That ring is lit now, and a low-metalness `platinumLit` grade carries every horizontal cap | `mahplaza.js`, `materials.js` |
+| three valleys cut through the skyline — the portrait hero frame previously had ZERO open sky at any bearing | `city.js` |
+| four background material families assigned independently of shape; three distant depth bands instead of one flat black | `city.js` |
+| the facilities separated LATERALLY as well as in depth — their side wings had physically collided — with the secondary mass growing backward instead of sideways | `buildings.js` |
+| the natural world: three mountain ranges, a land ring, green corridors in the valleys, and a still reflective basin | `terrain.js` (new) |
+| canonical MAH branding read out of the app source, and signage built into the facade rather than printed on it | `materials.js`, `buildings.js` |
+| flight and flight-LEARNING: seven states as one skill-driven arc, beginners common and the three-resident lesson rarest | `life.js` |
+| furniture with bodies — plinths, overhangs, nosings, underside light — and four ecosystem cameras | `plaza-dressing.js`, `mahplaza.js` |
+
+Contracts: `CONTRACTS_V5.md` and `CONTRACTS_V4.md` both still hold.
 
 ## v5 — the chromium city
 
